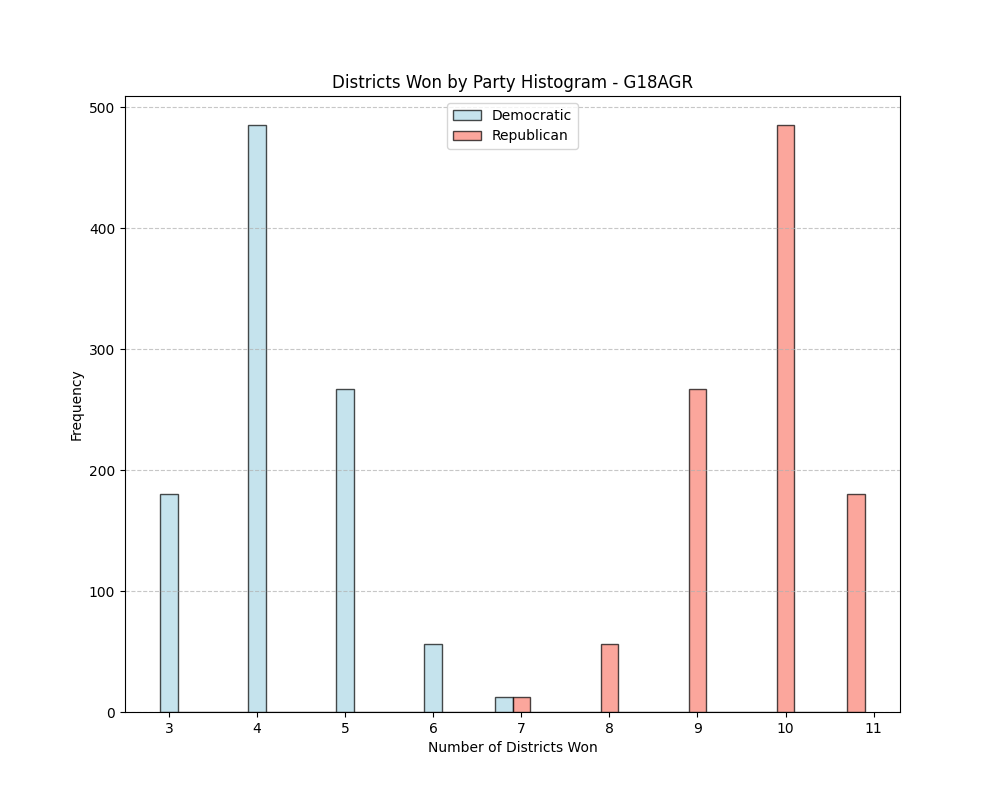
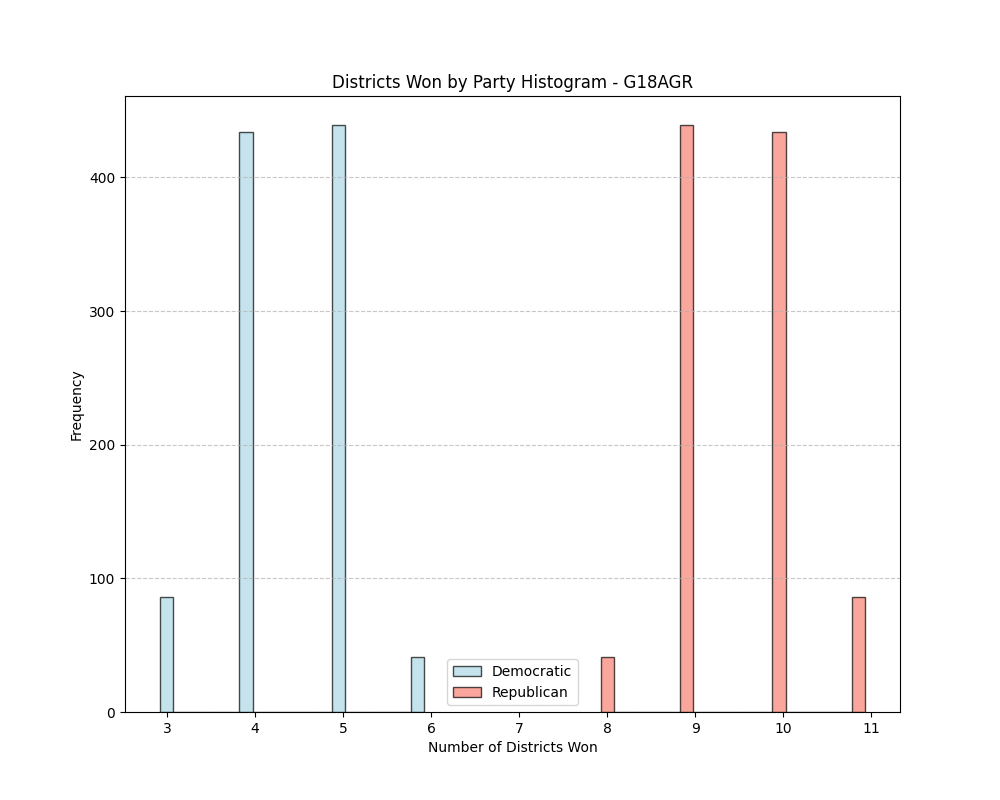
added plots for 2000 and 5000 steps

diff --git a/gerrychainGA.py b/gerrychainGA.py
@@ -11,7 +11,7 @@ from gerrychain.metrics import mean_median, efficiency_gap
 # ------------------------- Define Constants -------------------------
 POPULATION_TOLERANCE = 0.2
 NUM_GA_DISTS = 14
-NUM_STEPS = 10
+NUM_STEPS = [10, 1000, 2000, 5000]
 
 # ---------------------------- Load Graph ----------------------------
 def load_graph(file_path):
@@ -87,67 +87,67 @@ def main():
     # Create initial partition
     initial_partition = initialize_partition(elections, ga_graph)
 
-    # Execute random walk
-    random_walk = execute_random_walk(initial_partition, NUM_STEPS, NUM_GA_DISTS, ga_graph)
+    for steps in NUM_STEPS:
+        # Execute random walk
+        random_walk = execute_random_walk(initial_partition, steps, NUM_GA_DISTS, ga_graph)
 
+        # Gather data for each election
+        election_data_dict = {}
 
-    # Gather data for each election
-    election_data_dict = {}
+        for election in elections:
+            election_data_dict[election.name] = {"eg": [], "mm": [], "d_wins": [], "r_wins": [], "cut_edges": []}
 
-    for election in elections:
-        election_data_dict[election.name] = {"eg": [], "mm": [], "d_wins": [], "r_wins": [], "cut_edges": []}
+        for election, data_dict in election_data_dict.items():
+            for partition in random_walk:
+                data_dict['eg'].append(efficiency_gap(partition[election]))
+                data_dict['mm'].append(mean_median(partition[election]))
+                data_dict['d_wins'].append(partition[election].wins("Democratic"))
+                data_dict['r_wins'].append(partition[election].wins("Republican"))
+                data_dict['cut_edges'].append(len(partition["cut_edges"]))
 
-    for election, data_dict in election_data_dict.items():
-        for partition in random_walk:
-            data_dict['eg'].append(efficiency_gap(partition[election]))
-            data_dict['mm'].append(mean_median(partition[election]))
-            data_dict['d_wins'].append(partition[election].wins("Democratic"))
-            data_dict['r_wins'].append(partition[election].wins("Republican"))
-            data_dict['cut_edges'].append(len(partition["cut_edges"]))
+        # Plot histograms
+        for election, data_dict in election_data_dict.items():
+            plt.figure(figsize=(10, 8))
+            plt.hist(data_dict['eg'], bins=20, color='skyblue', edgecolor='black', alpha=0.7, align='left')
+            plt.title(f"Efficiency Gap Histogram - {election}")
+            plt.xlabel("Efficiency Gap")
+            plt.ylabel("Frequency")
+            plt.grid(axis='y', linestyle='--', alpha=0.7)
+            plt.savefig(f"./output/{steps}steps/{election}_eg_histogram.png")
+            plt.close()
 
-    # Plot histograms
-    for election, data_dict in election_data_dict.items():
-        plt.figure(figsize=(10, 8))
-        plt.hist(data_dict['eg'], bins=20, color='skyblue', edgecolor='black', alpha=0.7, align='left')
-        plt.title(f"Efficiency Gap Histogram - {election}")
-        plt.xlabel("Efficiency Gap")
-        plt.ylabel("Frequency")
-        plt.grid(axis='y', linestyle='--', alpha=0.7)
-        plt.savefig(f"./output/10steps/{election}_eg_histogram.png")
-        plt.close()
+            plt.figure(figsize=(10, 8))
+            plt.hist(data_dict['mm'], bins=20, color='skyblue', edgecolor='black', alpha=0.7, align='left')
+            plt.title(f"Mean Median Histogram - {election}")
+            plt.xlabel("Mean Median")
+            plt.ylabel("Frequency")
+            plt.grid(axis='y', linestyle='--', alpha=0.7)
+            plt.savefig(f"./output/{steps}steps/{election}_mm_histogram.png")
+            plt.close()
 
-        plt.figure(figsize=(10, 8))
-        plt.hist(data_dict['mm'], bins=20, color='skyblue', edgecolor='black', alpha=0.7, align='left')
-        plt.title(f"Mean Median Histogram - {election}")
-        plt.xlabel("Mean Median")
-        plt.ylabel("Frequency")
-        plt.grid(axis='y', linestyle='--', alpha=0.7)
-        plt.savefig(f"./output//10steps/{election}_mm_histogram.png")
-        plt.close()
+            plt.figure(figsize=(10, 8))
+            plt.hist(data_dict['d_wins'], bins=20, color='lightblue', edgecolor='black', alpha=0.7, align='left', label='Democratic')
+            plt.hist(data_dict['r_wins'], bins=20, color='salmon', edgecolor='black', alpha=0.7, align='left', label='Republican')
+            plt.title(f"Districts Won by Party Histogram - {election}")
+            plt.xlabel("Number of Districts Won")
+            plt.ylabel("Frequency")
+            plt.legend()
+            plt.grid(axis='y', linestyle='--', alpha=0.7)
+            plt.savefig(f"./output/{steps}steps/{election}_district_wins_histogram.png")
+            plt.close()
 
-        plt.figure(figsize=(10, 8))
-        plt.hist(data_dict['d_wins'], bins=20, color='lightblue', edgecolor='black', alpha=0.7, align='left', label='Democratic')
-        plt.hist(data_dict['r_wins'], bins=20, color='salmon', edgecolor='black', alpha=0.7, align='left', label='Republican')
-        plt.title(f"Districts Won by Party Histogram - {election}")
-        plt.xlabel("Number of Districts Won")
-        plt.ylabel("Frequency")
-        plt.legend()
-        plt.grid(axis='y', linestyle='--', alpha=0.7)
-        plt.savefig(f"./output/10steps/{election}_district_wins_histogram.png")
-        plt.close()
+            plt.figure(figsize=(10, 8))
+            plt.hist(data_dict['cut_edges'], bins=20, color='skyblue', edgecolor='black', alpha=0.7, align='left')
+            plt.title(f"Cut Edges Histogram - {election}")
+            plt.xlabel("Number of Cut Edges")
+            plt.ylabel("Frequency")
+            plt.grid(axis='y', linestyle='--', alpha=0.7)
+            plt.savefig(f"./output/{steps}steps/{election}_cut_edges_histogram.png")
+            plt.close()
 
-        plt.figure(figsize=(10, 8))
-        plt.hist(data_dict['cut_edges'], bins=20, color='skyblue', edgecolor='black', alpha=0.7, align='left')
-        plt.title(f"Cut Edges Histogram - {election}")
-        plt.xlabel("Number of Cut Edges")
-        plt.ylabel("Frequency")
-        plt.grid(axis='y', linestyle='--', alpha=0.7)
-        plt.savefig(f"./output/10steps/{election}_cut_edges_histogram.png")
-        plt.close()
-
-    # Measure execution time
-    end_time = time.time()
-    print("The time of execution of the program is:", (end_time - start_time) / 60, "mins")
+        # Measure execution time
+        end_time = time.time()
+        print("The time of execution of the program is:", (end_time - start_time) / 60, "mins")
 
 if __name__ == "__main__":
     main()
